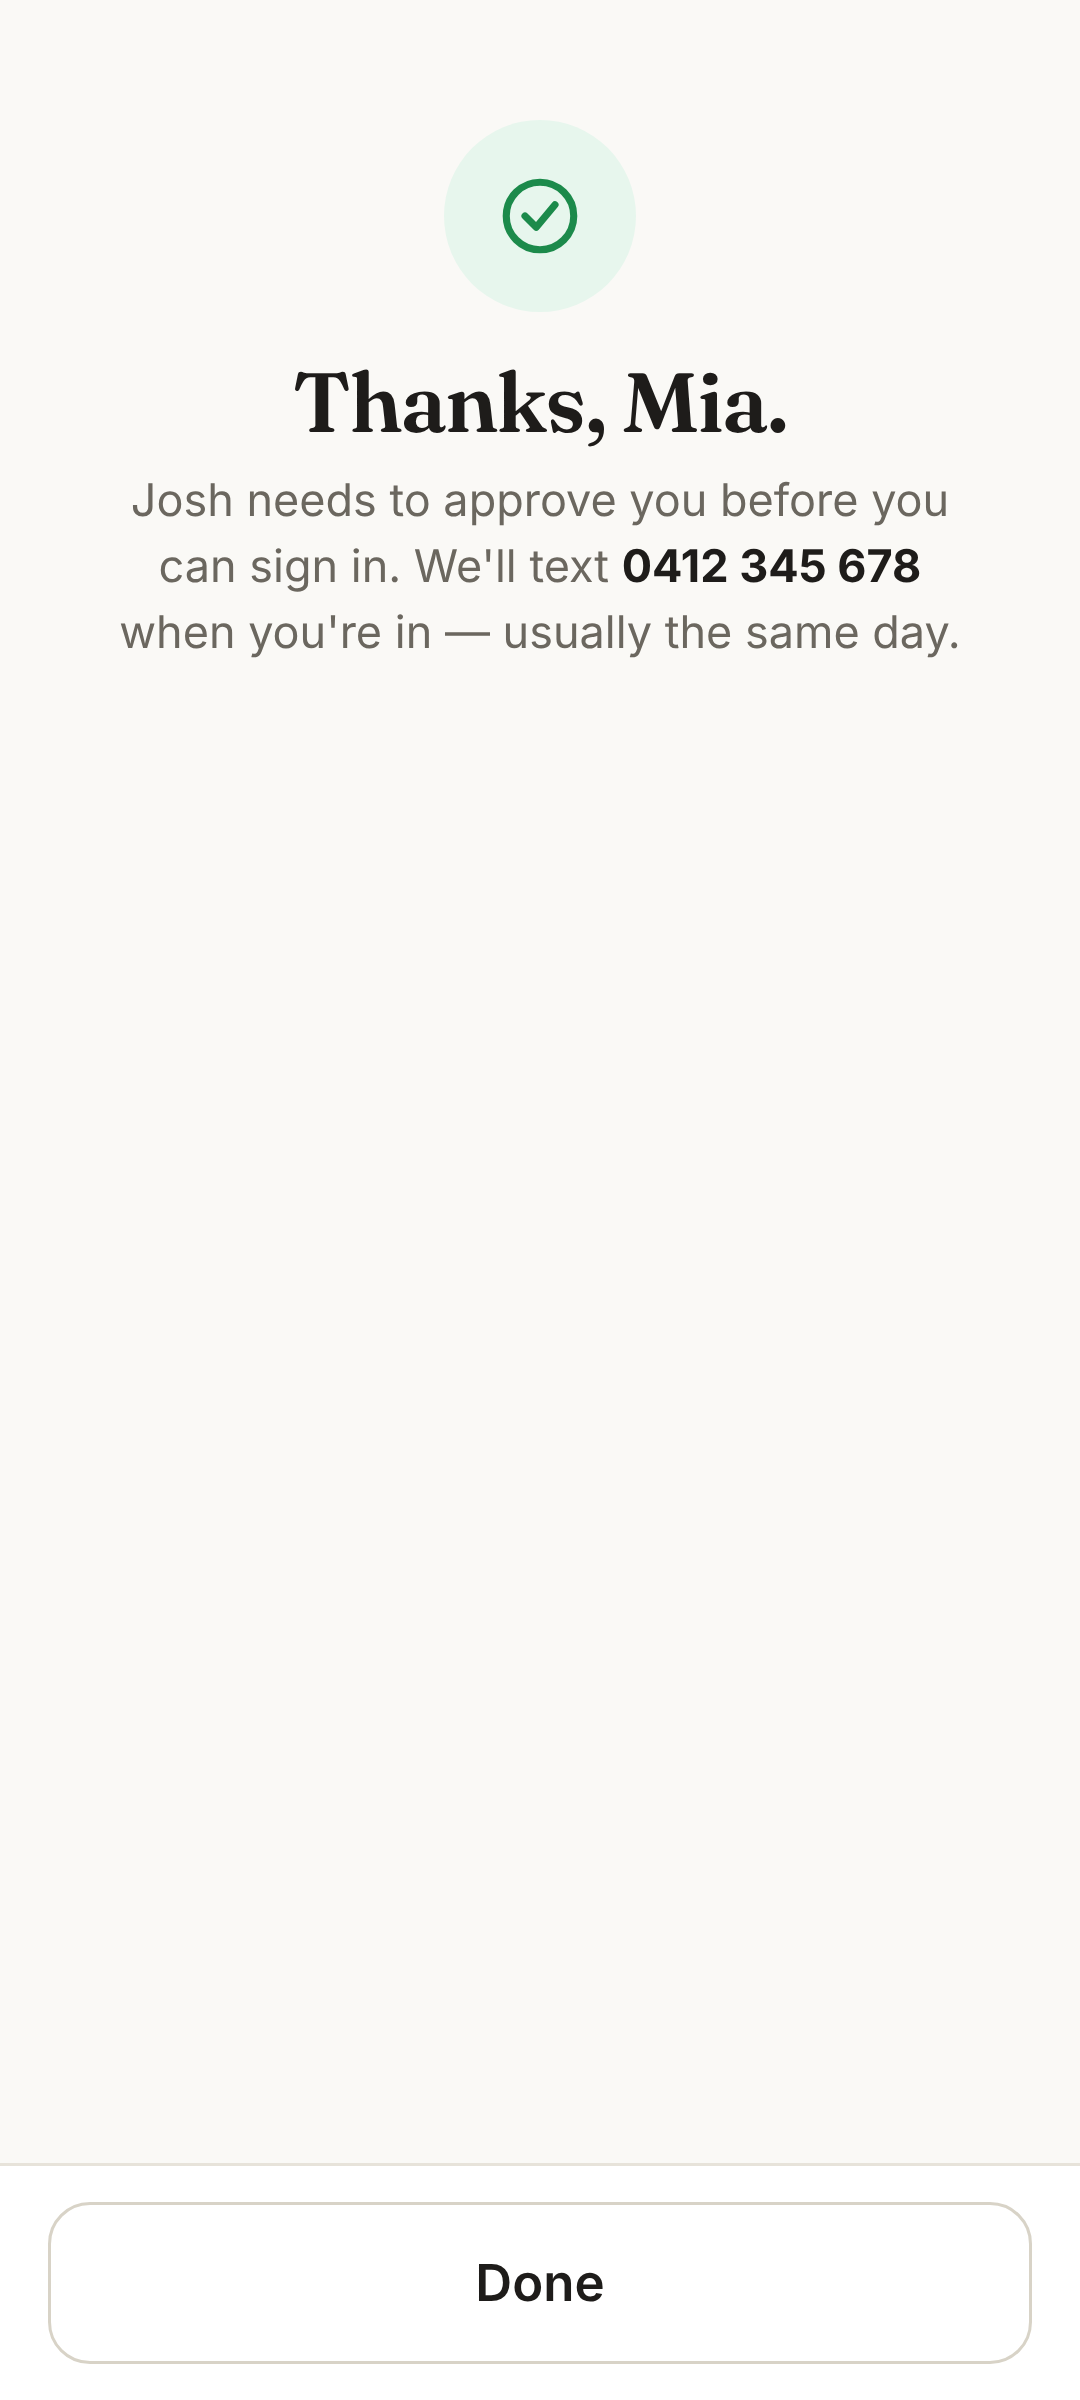
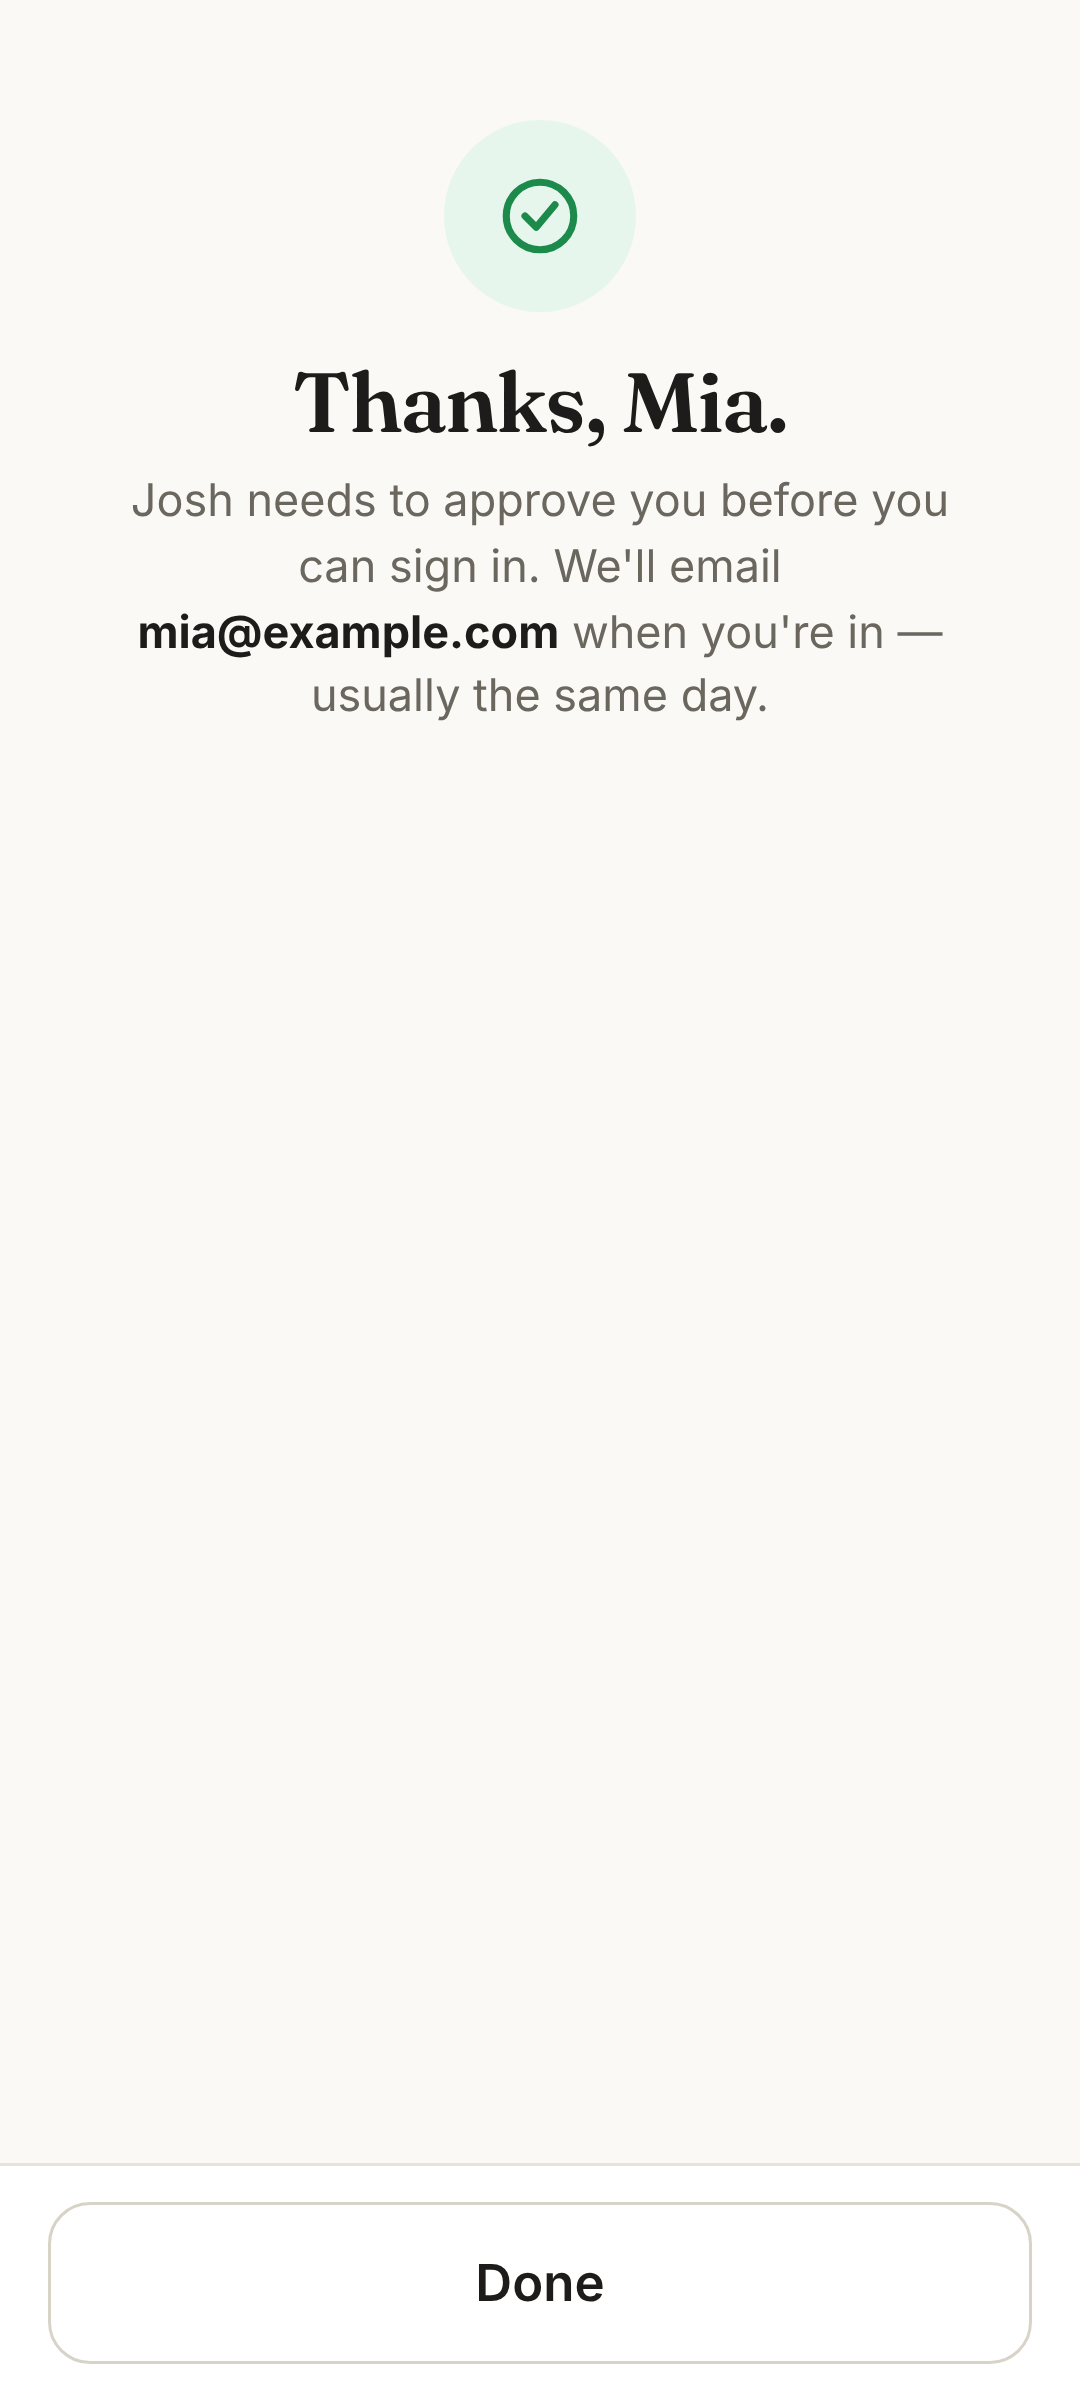
C8 prototype: the pending screen promises an email, not a text (SMS depends on the owner's hub); 608/608
Claude-Session: https://claude.ai/code/session_01HpZojkjji8RgUnjdAETzSX

Changed region(s): [[0.1222, 0.2188, 0.8861, 0.3125]]

diff --git a/c1-crew-shell.html b/c1-crew-shell.html
@@ -1632,7 +1632,7 @@ table.pitems tr.area td{font-weight:700;padding-top:10px}
 
   // ---- deep links for review / tests ----
   if (q.get('error') === 'restricted') { $('#loginErrorText').textContent = RESTRICTED; $('#loginError').classList.remove('hide'); }
-  if (q.get('error') === 'pending') { $('#loginErrorText').textContent = "Your account is waiting for Josh to approve it. We'll text you when you're in."; $('#loginError').classList.remove('hide'); }   // C8 proposal — the approval gate
+  if (q.get('error') === 'pending') { $('#loginErrorText').textContent = "Your account is waiting for Josh to approve it. We'll email you when you're in."; $('#loginError').classList.remove('hide'); }   // C8 proposal — the approval gate
 
   // ================= C5: documents — onboarding, profile, my documents =================
   const DOC_CAT = [
@@ -1808,7 +1808,7 @@ table.pitems tr.area td{font-weight:700;padding-top:10px}
     } else {
       const okIco = `<span class="ico ok" style="width:64px;height:64px;border-radius:32px;margin:10px auto 14px"><svg style="width:30px;height:30px"><use href="#i-check"/></svg></span>`;
       if (onb.finish) { body = `<div class="onb-top">${okIco}<div class="onb-title" data-testid="crew-onb-done">You're all set, ${esc(first)}.</div><div class="onb-sub">From now on sign in with <b>${esc(onb.email)}</b> and your new password.</div></div>`; bar = `<button class="btn btn-primary" data-testid="crew-onb-today" data-onb="today">Go to Today</button>`; }
-      else if (onb.gate) { body = `<div class="onb-top">${okIco}<div class="onb-title" data-testid="crew-onb-pending">Thanks, ${esc(first)}.</div><div class="onb-sub">${esc(ownerFirst)} needs to approve you before you can sign in. We'll text <b>${esc(onb.phone || 'your mobile')}</b> when you're in — usually the same day.</div></div>`; bar = `<button class="btn btn-outline" data-testid="crew-onb-signin" data-onb="signin">Done</button>`; }   // C8 proposal — the approval gate
+      else if (onb.gate) { body = `<div class="onb-top">${okIco}<div class="onb-title" data-testid="crew-onb-pending">Thanks, ${esc(first)}.</div><div class="onb-sub">${esc(ownerFirst)} needs to approve you before you can sign in. We'll email <b>${esc(onb.email)}</b> when you're in — usually the same day.</div></div>`; bar = `<button class="btn btn-outline" data-testid="crew-onb-signin" data-onb="signin">Done</button>`; }   // C8 proposal — the approval gate
       else if (onb.auto) { body = `<div class="onb-top">${okIco}<div class="onb-title" data-testid="crew-onb-done">You're on the team, ${esc(first)}.</div><div class="onb-sub">You're signed in on this phone. Set a PIN so you can clock on with four digits.</div></div>`; bar = `<button class="btn btn-primary" data-testid="crew-onb-setpin" data-onb="setpin">Set a PIN</button>`; }   // C8 proposal — signed in by the join itself
       else { body = `<div class="onb-top">${okIco}<div class="onb-title" data-testid="crew-onb-done">You're on the team, ${esc(first)}.</div><div class="onb-sub">Sign in with <b>${esc(onb.email)}</b> and the password you just created.</div></div>`; bar = `<button class="btn btn-primary" data-testid="crew-onb-signin" data-onb="signin">Sign in</button>`; }
     }

diff --git a/tools/test_c1.js b/tools/test_c1.js
@@ -597,7 +597,7 @@ async function run(b, W, H, tag) {
   await p.click(T('crew-onb-setpin')); await p.waitForTimeout(150); await p.fill(T('set-pin-input'), '2468'); await p.waitForTimeout(100); await p.fill(T('set-pin-input'), '2468'); await p.waitForTimeout(200);
   ok('…Set a PIN → the pad → the Dashboard, no password typed' + full, await p.locator(T('crew-pane-dashboard')).isVisible());
   await p.goto(U + '?screen=onboarding&step=5&agree=1&gate=1'); await p.waitForTimeout(300); await p.click(T('crew-onb-join')); await p.waitForTimeout(150);
-  ok('proposal — approval gate: "Thanks, Mia." with the owner\'s name and the mobile number; Done' + full, /Thanks, Mia\./.test(await txt(T('crew-onb-pending'))) && /Josh needs to approve you/.test(await txt('#onbBody')) && /0412 345 678/.test(await txt('#onbBody')) && (await txt(T('crew-onb-signin'))) === 'Done');
+  ok('proposal — approval gate: "Thanks, Mia." with the owner\'s name and the email we will write to; Done' + full, /Thanks, Mia\./.test(await txt(T('crew-onb-pending'))) && /Josh needs to approve you/.test(await txt('#onbBody')) && /mia@example\.com/.test(await txt('#onbBody')) && (await txt(T('crew-onb-signin'))) === 'Done');
   await p.screenshot({ path: OUT + `c8-onb-pending-${tag}.png` });
   await p.goto(U + '?screen=onboarding'); await p.waitForTimeout(300);
   ok('onboarding 0: the "You\'ll need" list has no emergency contact (not asked since 2 Nov)' + full, !/emergency contact/i.test(await txt('#onbBody')) && /Your home address/.test(await txt('#onbBody')));

diff --git a/c8-invites-notes.md b/c8-invites-notes.md
@@ -69,4 +69,4 @@ Small. Backend: the branded owner-added email, the join-link send route and its 
 
 `crew-pin-login`, `crew-pin-hello`, `crew-pin-pad`, `crew-pin-input`, `crew-pin-box-0..3`, `crew-pin-error`, `crew-pin-use-password`; `crew-set-pin`, `set-pin-title`, `set-pin-pad`, `set-pin-input`, `set-pin-error`, `set-pin-skip`; `crew-mail`, `crew-mail-back`, `crew-mail-meta`, `crew-mail-body`, `crew-mail-card`, `crew-mail-subject`, `crew-mail-cta`, `crew-mail-note`; `crew-onb-address`, `crew-onb-suburb`, `crew-onb-pending`, `crew-onb-setpin`; `crew-alerts-card`, `crew-alerts-title`, `crew-alerts-on`, `crew-alerts-dismiss`. Removed: `crew-onb-emergency`, `crew-onb-privacy` (the agreement has the one link).
 
-Prototype suite: 608 checks, 304 per viewport, all passing at 390 × 844 and 360 × 800.
+Prototype suite: 608 checks, 304 per viewport, all passing at 390 × 844 and 360 × 800 (shell md5 981ce619cc41a193bdf0496c8f447a47, 240,310 bytes).
